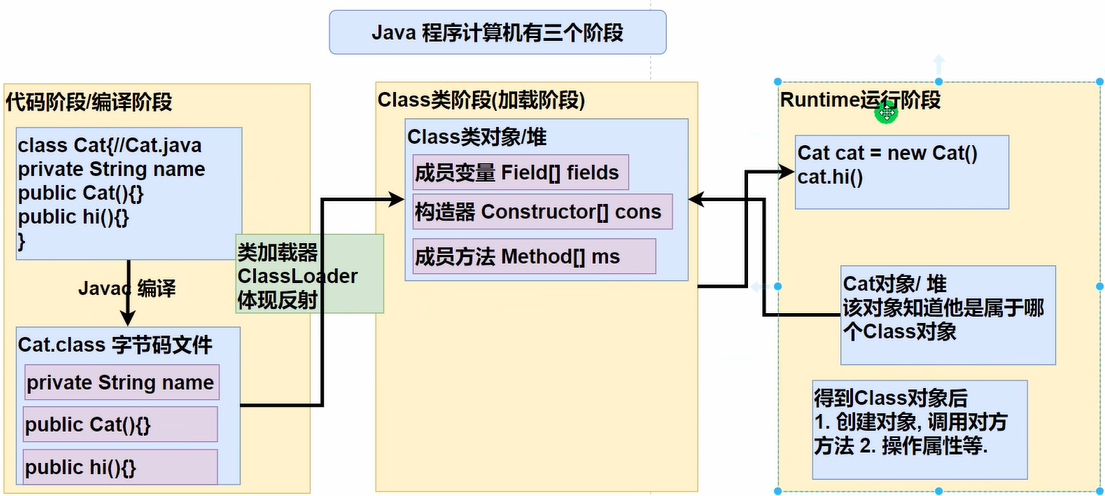
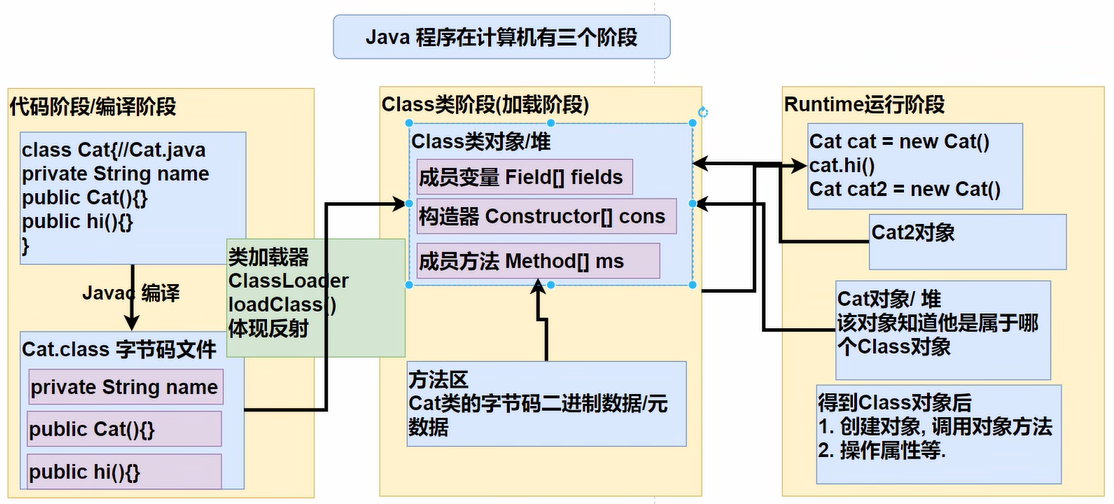
反射

diff --git a/docs/Java高级.md b/docs/Java高级.md
@@ -550,36 +550,247 @@ public class Server {
 
 ### （一）程序的三个阶段
 
+#### 1. 阶段图
+
 ![](img/编译、类加载、运行三阶段.png)
 
+      `Class.forName("全类名")`							`类名.class`											`对象.getClass()`
 
 
-### （二）基础语法
+
+#### 2. Class类
+
+* `Class`也继承自`Object`；
+
+* `Class`类对象是由系统创建的，而不是`new`出来的。`new`和反射的方法创建对象，底层都会进行类加载：
+
+  ![](img/ClassLoader.loadClass().png)
+
+* 每个类都只会加载一次，在首次创建对象、调用类的静态方法/属性/代码块时；
+
+* 通过`Class`对象可以得到一个类的所有信息；
+
+* `Class`对象存放在堆，类的字节码二进制数据存放在方法区，又称为元数据。
+
+
+
+#### 3. 获取`Class`类对象
+
+##### （1）Class.forName("类的全类名")
+
+已知类的全类名，且该类在类路径下，可以使用`Class.forName()`。可能抛出异常。
+
+**适用于场景：**配置文件中，读取类的全路径
+
+##### （2）类名.class
+
+已知具体的类，通过类的`class`获取，该方式较为可靠。
+
+**适用场景：**参数传递
+
+##### （3）对象.getClass()
+
+获取到的是类的运行类型，因为每个对象都会有引用指向其`Class`类对象，而`Class`类对象在将字节码加载到内存时记录了它的真正类型。
+
+**适用场景：**有对象实例的情况。
+
+##### （4）类加载器
+
+在类加载阶段，会通过类加载器获取`Class`对象
+
+```java
+Cat cat = new Cat();
+ClassLoader classLoader = cat.getClass().getClassLoader();
+Class<?> cls = classLoader.loadClass(path);
+```
+
+##### （5）基本数据类型.class
+
+自动装箱成了其包装类。
+
+##### （6）基本数据类型的包装类.TYPE
+
+`int.class` 和 `Integer.TYPE`得到的Class 对象是同一个
+
+**适用场景：**基本数据类型的包装类
+
+
+
+#### 4. 哪些类型有Class对象
+
+* 外部类、成员内部类、静态内部类、局部内部类、匿名内部类
+* 接口
+* 数组
+* 枚举
+* 注解
+* 基本数据类型
+* `void`
+* `Class`本身
+
+```java
+Class<String> cls1 = String.class;  // 外部类
+Class<Serializable> cls2 = Serializable.class;  // 接口
+Class<Integer[][]> cls3 = Integer[][].class;    // 数组
+Class<Thread.State> cls4 = Thread.State.class;  // 枚举
+Class<Test> cls5 = Test.class;  // 注解
+Class<Integer> cls6 = int.class;    // 基本数据类型
+Class<Void> cls7 = void.class;  // void
+Class<Class> cls8 = Class.class;    // Class
+```
+
+
+
+#### 5. 类加载过程
+
+##### （1）静态加载与动态加载
+
+**静态加载：**
+
+编译时加载，如果找不到类则报错（即使在分支语句中运行不到，依旧会报错），依赖性较强。
+
+`new`、父类随子类加载、调用静态成员等是静态加载。
+
+**动态加载：**
+
+运行时加载，如果运行不到，就不会报错，依赖性降低。
+
+反射是动态加载。
+
+
+
+##### （2）类加载过程图
+
+![](img/类加载.png)
+
+![](img/类加载2.png)
+
+* 加载和连接阶段是由`JVM`完成的。
+* 注意和对象创建阶段区分开，类加载的初始化阶段只与静态成员有关。
+
+
+
+##### （3）各阶段细节：
+
+1. **加载：**将字节码从不同的数据源（`class`文件、`jar`包、网络）转化为二进制字节流加载到内存中（即，将数据加载到方法区），并生成一个代表该类的`Class`对象。
+
+2. **连接：**
+
+   1. **验证：**确保`Class`文件的字节流中的信息符合`JVM`规范，并且不会危害虚拟机自身安全。包括文件格式验证（是否以魔数`oxcafebabe`开头（字节码文件的开头是16进制的`cafebabe`八个字符））、元数据验证、字节码验证、符号引用验证等。
+
+      可以使用`-Xverify:none`来关闭大部分验证，从而缩短虚拟机类加载的时间。
+
+   2. **准备：**为静态变量分配内存，并初始化值。其中，`static`类型分配默认值，`static final`类型直接赋值。
+
+      ![](img/类加载-准备阶段.png)
+
+   3. **解析：**虚拟机将常量池的符号引用替换为直接引用。（逻辑地址转为物理地址）
+
+3. **初始化：**执行<clinit>()方法，依次收集类中的所有静态变量的赋值操作、和静态代码块汇总的语句，进行合并，然后再初始化。虚拟机会保证该方法在多线程环境中被正确地加锁、同步（在源码的`loadClass()`中有·`synchronized`关键字）。
+
+
+
+
+### （二）反射基础语法
 
 ```java
 // 通过全名获取类对象
-Class cls = Class.forName("com.cuc.rg.reflection.Cat");
+// <?>表示不确定的Java类型，也可以去掉
+Class<?> cls = Class.forName("com.cuc.rg.reflection.Cat");
+
+System.out.println(cls);    // class com.cuc.rg.reflection.Cat
+System.out.println(cls.getClass()); // class java.lang.Class
+
+
+System.out.println(cls.getName()）;	// 获取全类名
+System.out.println(cls.getSimpleName()）;	// 获取简单类名
+System.out.println(cls.getPackage());	// 获取包信息
 
 // 创建对象
 Object o = cls.newInstance();
 System.out.println("o的运行类型" + o.getClass());
 
-// 调用方法
-Method method = cls.getMethod("play");
-method.invoke(o);
-
 // 获取共有属性
 Field age = cls.getField("age");
 System.out.println(age.get(o));
 
+// 设置属性
+age.set(cat, 2);
+
+// 获取所有公有属性(包括父类)
+Field[] fields = cls.getFields();
+for (Field field : fields) {
+    System.out.println(field.getName() + "，" + field.get(cat));
+}
+// 获取所有属性，包括私有的
+Field[] declaredFields = cls.getDeclaredFields();
+                   
+//以int形式返回修饰符
+// 0 - 默认修饰符，1 - public，2 - private，4 - protected，8 - static，10 - final
+// 组合关系会直接相加，如 public static 是 9
+int num = field.getModifiers();	// 属性类型
+int num2 = method.getModifiers();	// 返回值类型
+                   
+System.out.println(field.getType());
+System.out.println(method.getReturnType());
+                   
+// 调用方法
+Method eat = cls.getMethod("play", String.class);
+method.invoke(eat, "毛线团");	// 如果有返回值，一律返回Object
+
+// 获取所有公有方法
+Method[] methods = cls.getMethods();
+                   
+// 获取所有方法，包括私有的
+Method[] declaredMethods = cls.getDeclaredMethods();
+                   
+// 获得形参数组信息
+Class<?>[] parameterTypes = declaredMethods.getParameterTypes();
+                   
 // 无参构造器
-Constructor constructor = cls.getConstructor();
-System.out.println(constructor);
+Constructor constructor1 = cls.getConstructor();
+System.out.println(constructor1);
 
 // 有参构造器
-Constructor constructor1 = cls.getConstructor(String.class);
-System.out.println(constructor1);
+Constructor constructor2 = cls.getConstructor(String.class);
+System.out.println(constructor2);
+
+// 获取本类所有构造器，不包含父类
+Constructor<?>[] declaredConstructors = cls.getDeclaredConstructor();
+                   
+// 构造器的参数信息
+Class<?>[] types = declaredConstructor.getParameterTypes();
+             
+// 获取父类信息
+Class<?> superClass = cls.getSuperClass();
+                   
+// 获取接口信息                 
+Class<?>[] interfaces = cls.getInterface();	
+                   
+// 获取注解信息                 
+Annotation[] annotations = cls.getAnnotations();	
 ```
+
+
+
+#### 6. 通过`Class`创建对象的方法
+
+```java
+Class<?> cls = Class.forName(path);
+
+// 1 直接创建，在Java9之后已经被弃用
+Object cat1 = cls.newInstance();
+
+// 2 公有构造器
+Constructor<?> constructor1 = cls.getConstructor(String.class);
+Object cat2 = constructor1.newInstance("猫猫");
+
+// 3 私有构造器
+Constructor<?> constructor2 = cls.getDeclaredConstructor(String.class, int.class);
+constructor2.setAccessible(true);   // 允许暴力访问私有构造器，私有属性和方法同理
+Object cat3 = constructor2.newInstance("猫猫猫", 3);
+```
+
+
 
 
 
@@ -644,4 +855,70 @@ m2()耗时：232毫秒
 ```
 
 
+
+### （四）例题
+
+#### 1. 例一
+
+使用反射创建`PrivateTest`对象，修改其私有属性`name`，并调用`getName`方法输出。
+
+```java
+public class Index {
+    public static void main(String[] args) throws Exception {
+
+        // 构造对象
+        Class<PrivateTest> cls = PrivateTest.class;
+        Constructor<?> constructor = cls.getConstructor();
+        PrivateTest test = (PrivateTest) constructor.newInstance();
+
+        // 获得私有属性，并修改
+        Field name = cls.getDeclaredField("name");
+        name.setAccessible(true);
+        name.set(test, "李四");
+
+        // 获得方法并输出
+        Method method = cls.getMethod("getName");
+        System.out.println(method.invoke(test));
+    }
+}
+
+class PrivateTest {
+    public PrivateTest() {
+    }
+
+    private String name = "张三";
+
+    public String getName() {
+        return name;
+    }
+
+```
+
+
+
+#### 2. 例二
+
+使用反射打印`File`的所有构造器，使用`newInstance()`获取`File`对象，并在`e`盘创建文件。
+
+```java
+public class Index {
+    public static void main(String[] args) throws Exception {
+        // 打印构造器
+        Class<?> cls = Class.forName("java.io.File");
+        Constructor<?>[] declaredConstructors = cls.getDeclaredConstructors();
+        for (Constructor constructor : declaredConstructors) {
+            System.out.println(constructor);
+        }
+
+        // 创建对象
+        Constructor<?> constructor = cls.getDeclaredConstructor(String.class);
+        Object file = constructor.newInstance("e:/背景/test.txt");
+        
+        // 调用方法创建文件
+        Method createNewFile = cls.getDeclaredMethod("createNewFile");
+        createNewFile.invoke(file);
+
+    }
+}
+```
 
